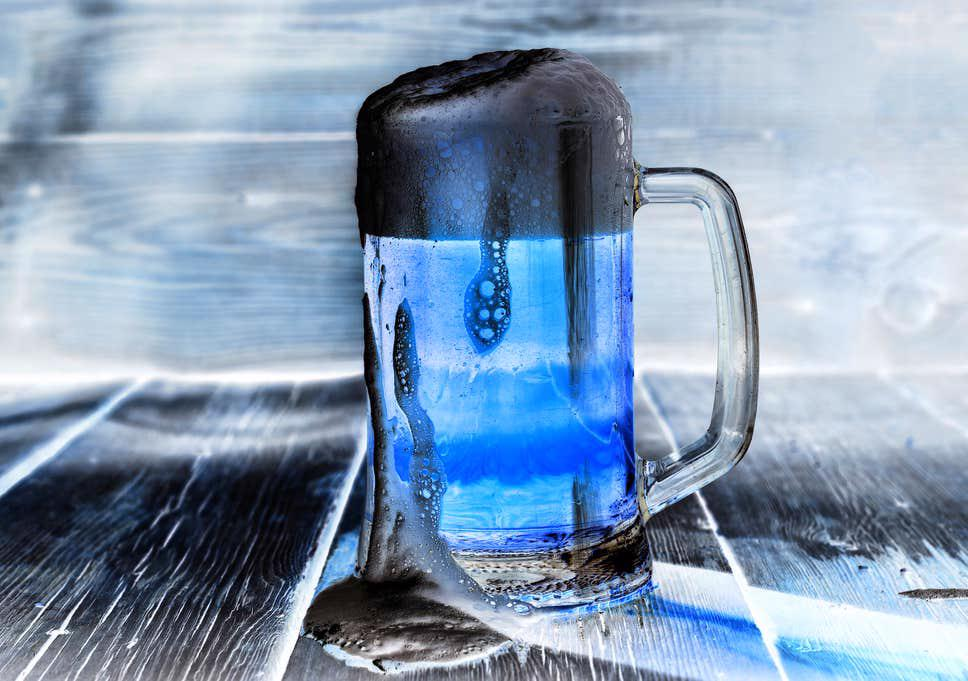
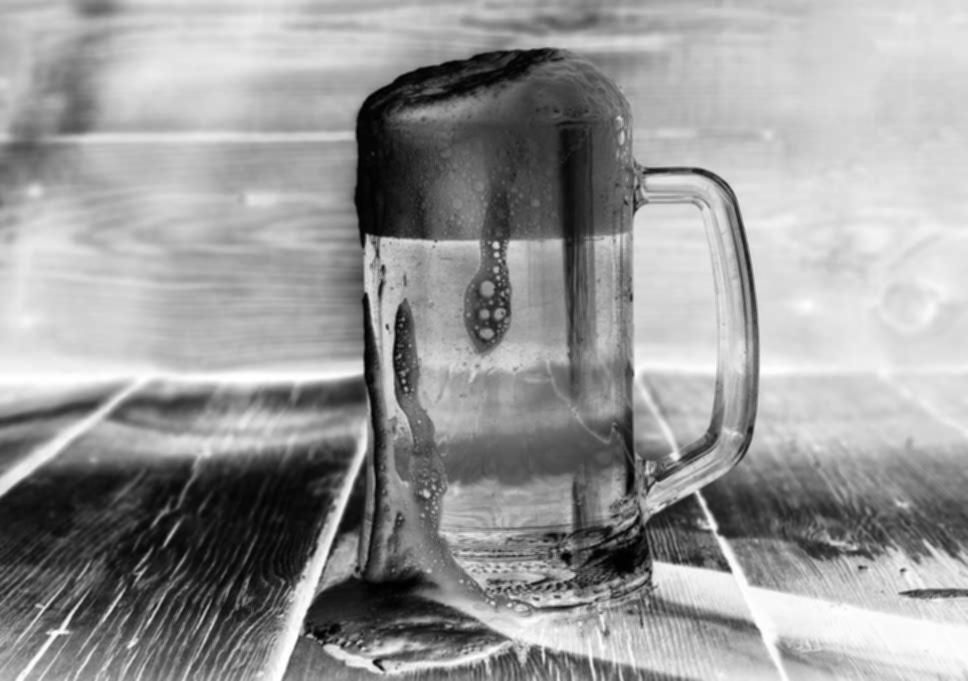
Agrego poco comentarios

diff --git a/src/Program/Program.cs b/src/Program/Program.cs
@@ -11,10 +11,12 @@ namespace CompAndDel
     {
         static void Main(string[] args)
         {
+            //Parte 1 y 2
             List<IPicture> ListFilterimage = new List<IPicture>();
             PictureProvider provider = new PictureProvider();
             IPicture picture = provider.GetPicture(@"beer.jpg");
-            string guardado = (@"Chelliña.jpg");
+            string guardado = (@"Cerveza.jpg");
+            string guardado2 = (@"luke.jpg");
 
             PipeSerial filter3 = new PipeSerial(new FilterNegative(), new PipeNull());
             IPicture  image1 = filter3.Send(picture);
@@ -31,14 +33,19 @@ namespace CompAndDel
             IPicture Finalimage = ListFilterimage[ListFilterimage.Count - 1];
             provider.SavePicture(Finalimage,guardado);
 
-
+            //Parte 3
             TwitterImage twitter = new TwitterImage();
             Console.WriteLine(twitter.PublishToTwitter("Joacoooo",guardado));
-            
-            provider.SavePicture(Finalimage,@"Lucas.jpg");
+
+            //Parte 4
+            IPicture luke = Program.FilterPersonSearcher(guardado2);
+            IPicture chelliña = Program.FilterPersonSearcher(guardado);
+
+            provider.SavePicture(luke,@"Lucas.jpg");
+            provider.SavePicture(chelliña,@"Cerveciña.jpg");
 
         }
-        private IPicture PersonSearcher(string lugardefoto)
+        private static IPicture FilterPersonSearcher(string lugardefoto)
         {
             CognitiveFace cog = new CognitiveFace(false);
             cog.Recognize(lugardefoto);
@@ -46,15 +53,15 @@ namespace CompAndDel
             IPicture picture = provider.GetPicture(lugardefoto);
             if (cog.FaceFound)
             {
-                PipeSerial filtro = new PipeSerial(new FilterBlurConvolution(), new PipeNull());
-                IPicture imagen = filtro.Send(picture);
-                return imagen;
+                PipeSerial filtro = new PipeSerial(new FilterGreyscale(), new PipeNull());
+                IPicture image = filtro.Send(picture);
+                return image;
             }
             else
             {
                 PipeSerial filtro = new PipeSerial(new FilterNegative(), new PipeNull());
-                IPicture imagen = filtro.Send(picture);
-                return imagen;
+                IPicture image = filtro.Send(picture);
+                return image;
             }
 
         }
